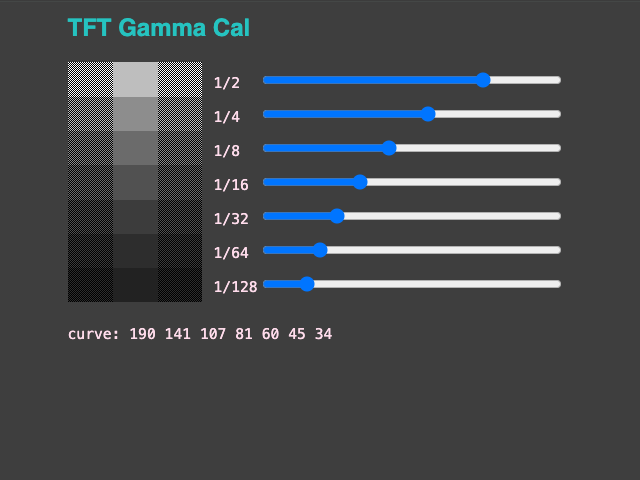
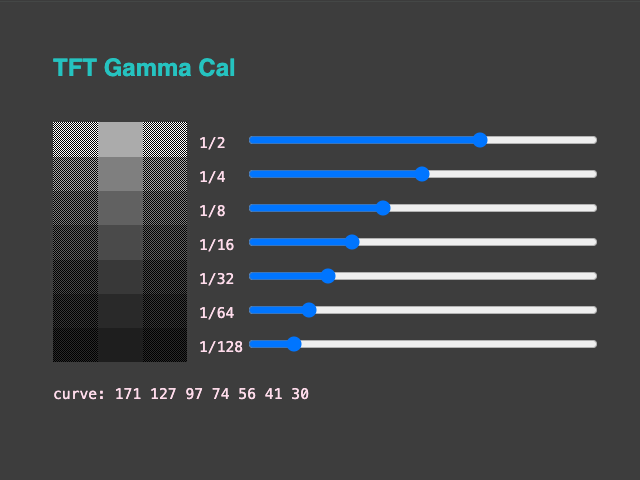
revise default curve and test images
After realizing that I my monitor's settings were messing with the
colors being sent by my computer, I attempted to reconfigure my
monitor to accurately display sRGB colors. This commit has the new
curve I calibrated after making those changes. Also, I added some
test images sized to fit on the Feather TFT's built in display.

diff --git a/index.html b/index.html
@@ -4,7 +4,7 @@
 <meta name="viewport" content="width=device-width, initial-scale=1">
 <title>TFT Gamma Cal</title>
 <style>
- :root{--F: #ffdcec; --B: #3e3e3e; --H: #25c3c0; --L: #459cda; --O: #444; }
+ :root{--F: #ffdcec; --B: #3d3d3d; --H: #25c3c0; --L: #459cda; --O: #444; }
  html{ background: var(--B); -webkit-text-size-adjust: none; }
  body{ background: var(--B); color: var(--F); min-height: 100vh;
   width: 100%; font-family: sans-serif; font-size: 17px; }
@@ -12,13 +12,16 @@
  canvas{ margin: 0; padding: 0; box-sizing: content-box; }
  p,li,label{ line-height: 1.23em; }
  label{ display: inline-block; min-height: 20px; }
- h1{ margin: 10px 0 20px 0px; font-size: 24px; color: var(--H); }
+ h1{ margin: 50px 0 40px 0px; font-size: 24px; color: var(--H); }
  p{ margin: 11px 0; }
+ .dim{ color: var(--H); }
+ table{ border-collapse: collapse; }
+ td{ padding: 5px; border: 1px solid var(--H);}
  main{ margin: 0 auto; padding: 2px 25px 115px 25px;
-  max-width: 700px; }
+  max-width: 630px; }
  canvas{ display: inline-block; width: 134px; height: 240px;
   background: var(--O); image-rendering: pixelated; }
- input[type=range]{ width: 300px; }
+ input[type=range]{ width: 350px; }
  #sliders{ display: inline-block; line-height: 34px; padding: 3px 12px 0; }
  #status, label{ font-family: monospace; font-size: 11pt;}
 </style>
@@ -31,35 +34,52 @@
 <canvas id="canvas">
 </div>
 
-<!-- sRGB IEC61966-2.1 curve: 194 143 108 82 60 45 32 -->
+<!-- sRGB IEC61966-2.1 curve: 171 127 97 74 56 41 30 -->
 
 <div id="sliders">
 <label for="gray1_2">1/2&nbsp;&nbsp;</label>
-<input type="range" id="gray1_2" name="gray1_2" min="1" max="254" value="194" step="1" />
+<input type="range" id="gray1_2" name="gray1_2" min="1" max="254" value="171" step="1" />
 <br>
 <label for="gray1_4">1/4&nbsp;&nbsp;</label>
-<input type="range" id="gray1_4" name="gray1_4" min="1" max="254" value="143" step="1" />
+<input type="range" id="gray1_4" name="gray1_4" min="1" max="254" value="127" step="1" />
 <br>
 <label for="gray1_8">1/8&nbsp;&nbsp;</label>
-<input type="range" id="gray1_8" name="gray1_8" min="1" max="254" value="108" step="1" />
+<input type="range" id="gray1_8" name="gray1_8" min="1" max="254" value="97" step="1" />
 <br>
 <label for="gray1_16">1/16&nbsp;</label>
-<input type="range" id="gray1_16" name="gray1_16" min="1" max="254" value="82" step="1" />
+<input type="range" id="gray1_16" name="gray1_16" min="1" max="254" value="74" step="1" />
 <br>
 <label for="gray1_32">1/32&nbsp;</label>
-<input type="range" id="gray1_32" name="gray1_32" min="1" max="254" value="60" step="1" />
+<input type="range" id="gray1_32" name="gray1_32" min="1" max="254" value="56" step="1" />
 <br>
 <label for="gray1_64">1/64&nbsp;</label>
-<input type="range" id="gray1_64" name="gray1_64" min="1" max="254" value="45" step="1" />
+<input type="range" id="gray1_64" name="gray1_64" min="1" max="254" value="41" step="1" />
 <br>
 <label for="gray1_128">1/128</label>
-<input type="range" id="gray1_128" name="gray1_128" min="1" max="254" value="32" step="1" />
+<input type="range" id="gray1_128" name="gray1_128" min="1" max="254" value="30" step="1" />
 <br>
 </div>
 
 <p style="clear: both; margin-top: 20px;">
 <span id="status"></status>
 </p>
+
+<p class="dim" style="padding-top: 100px;">
+The default curve above was calibrated on an LED backlit Dell monitor that I
+attempted to configure for displaying colors as sRGB. The monitor specs say it
+has a CIE1976 82% gamut, which, as best I can tell, is approximately the full
+sRGB gamut. The table below shows how I configured macOS and the monitor in my
+attempt to turn off features that would skew color reproduction away from sRGB.
+</p>
+
+<table class="dim">
+<tr><td>macOS</td><td>Displays &gt; Color profile</td><td>sRGB IEC61966-2.1</td></tr>
+<tr><td>monitor</td><td>Brightness</td><td>20%</td></tr>
+<tr><td></td><td>Contrast</td><td>100%</td></tr>
+<tr><td></td><td>Display Settings &gt; Sharpness</td><td>50%</td></tr>
+<tr><td></td><td>Color Settings &gt; Image Enhance</td><td>Off</td></tr>
+<tr><td></td><td>Color Settings &gt; Preset Modes</td><td>Standard</td></tr>
+</table>
 
 <script src="main.js"></script>
 

diff --git a/README.md b/README.md
@@ -10,12 +10,48 @@ what should happen on a color managed display.
 
 ![screenshot of an interactive gamma curve testing tool](gamma-cal-web-srgb.png)
 
-This curve was calibrated on a color managed monitor set for the sRGB
-IEC61966-2.1 color profile. On other sRGB color managed monitors, the
-brightness of the 7 vertically stacked gray bars should look consistent from
-left to right. For displays using some other color profile, the middle third of
-each bar may appear to have a different brightness value compared to the left
-and right ends. The effect only works when the image is viewed at 100% scaling.
+The curve above was calibrated on an LED backlit Dell monitor that I
+attempted to configure for displaying colors as sRGB. The monitor specs say it
+has a CIE1976 82% gamut, which, as best I can tell, is approximately the full
+sRGB gamut. The table below shows how I configured macOS and the monitor in my
+attempt to turn off features that would skew color reproduction away from sRGB.
+
+| Device  | Setting                           | Value             |
+| ------- | --------------------------------- | ----------------- |
+| mac     | Displays &gt; Color profile       | sRGB IEC61966-2.1 |
+| monitor | Brightness                        | 20%               |
+|         | Contrast                          | 100%              |
+|         | Display Settings &gt; Sharpness   | 50%               |
+|         | Color Settings &gt; Image Enhance | Off               |
+|         | Color Settings &gt; Preset Modes  | Standard          |
+
+
+On a monitor configured to have a similar color response to mine (sRGB-ish),
+the brightness of the 7 vertically stacked gray bars should look consistent
+from left to right. For displays with a different color response, the middle
+third of each bar may appear to have a different brightness value compared to
+the left and right ends. The effect only works when the image is viewed at 100%
+scaling.
+
+
+### Test PNG (web style)
+
+This is a cropped and rotated version of the screenshot above, but I removed
+the embedded ICC profile from the PNG file. PNG files are often prepared this
+way to match how some popular web browsers render CSS colors.
+
+![test pattern PNG without color profile](gamma-cal-240x134.png)
+
+
+### Test PNG with Embedded Color Profile
+
+This is a cropped and rotated version of the screenshot above, and it includes
+an embedded sRGB color profile. Some software may not display PNG files as sRGB
+unless there is an embedded ICC color profile. It might be interesting to see
+if this image looks the same as the previous image that lacks the embedded
+color profile.
+
+![test pattern PNG including embedded color profile](gamma-cal-240x134_icc.png)
 
 
 ## Hardware
